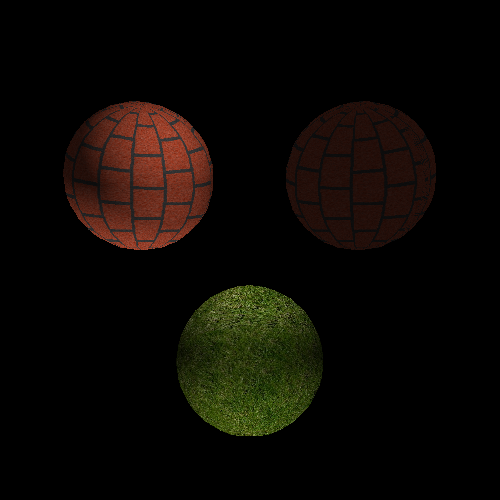
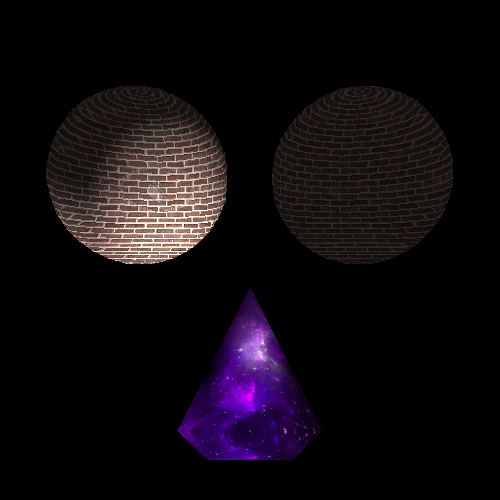
fixes

Changed region(s): [[0.09, 0.15, 0.48, 0.54], [0.54, 0.15, 0.93, 0.54], [0.33, 0.57, 0.66, 0.93]]

diff --git a/main.cpp b/main.cpp
@@ -22,21 +22,21 @@ int main() {
     DirectionalLight directionalLight;
     directionalLight.direction = Vector3{0, -1, 0};
     directionalLight.lightColor = Vector3{1.f, 1.f, 1.f};
-    directionalLight.diffuseStrength = 0.7f;
+    directionalLight.diffuseStrength = 0.9f;
     directionalLight.specularStrength = 0.f;
     simpleShader->setDirectionalLight(directionalLight);
 
     // POINT LIGHT
     PointLight pointLight;
-    pointLight.position = Vector3{0.f, -1.5f, 0.f};
+    pointLight.position = Vector3{0.f, 0.f, 0.f};
     pointLight.lightColor = Vector3{1.f, 1.f, 1.f};
-    pointLight.diffuseStrength = 0.7f;
-    pointLight.specularStrength = 0.0f;
+    pointLight.diffuseStrength = 0.9f;
+    pointLight.specularStrength = 0.f;
     simpleShader->addPointLight(pointLight);
     
     // TEXTURE
-    std::shared_ptr<Texture> brickTexture = std::make_shared<Texture>("../res/textures/brick.png");
-    std::shared_ptr<Texture> grassTexture = std::make_shared<Texture>("../res/textures/grass.jpg");
+    std::shared_ptr<Texture> brickTexture = std::make_shared<Texture>("../res/textures/brick.jpeg");
+    std::shared_ptr<Texture> universeTexture = std::make_shared<Texture>("../res/textures/universe.jpg");
     simpleShader->setTexture(brickTexture);
     simpleShaderNoLight->setTexture(brickTexture);
 
@@ -48,25 +48,25 @@ int main() {
 
     Matrix4 model = Matrix4{1};
 
-    SphereMesh sphereMesh(32);
+    SphereMesh sphereMesh(16);
     model = Matrix4::Translation(-1.5f, -1.f, 0.f) *
-            Matrix4::Scale(1.f, 1.f, 1.f);
+            Matrix4::Scale(1.2f, 1.2f, 1.2f);
     simpleShader->setModel(model);
     rasterizer.render(&sphereMesh, simpleShader.get());
     
-    SphereMesh sphereMesh2(32);
+    SphereMesh sphereMesh2(16);
     model = Matrix4::Translation(1.5f, -1.f, 0.f) *
-            Matrix4::Scale(1.f, 1.f, 1.f);
+            Matrix4::Scale(1.2f, 1.2f, 1.2f);
     simpleShaderNoLight->setModel(model);
     rasterizer.render(&sphereMesh2, simpleShaderNoLight.get());
     
-    SphereMesh sphereMesh3(32);
-
+    ConeMesh coneMesh(1.f, 2.f, 6);
     model = Matrix4::Translation(0.f, 1.5f, 0.f) *
+            Matrix4::RotationZ(ToRad(180.f)) *
             Matrix4::Scale(1.f, 1.f, 1.f);
     simpleShader->setModel(model);
-    simpleShader->setTexture(grassTexture);
-    rasterizer.render(&sphereMesh3, simpleShader.get());
+    simpleShader->setTexture(universeTexture);
+    rasterizer.render(&coneMesh, simpleShader.get());
 
     rasterizer.saveToFile();
 

diff --git a/src/mesh/SphereMesh.cpp b/src/mesh/SphereMesh.cpp
@@ -9,7 +9,6 @@ SphereMesh::SphereMesh(uint32_t segmentsNum) {
     const uint32_t tSize = 2 * vert * horiz;
 
     vertices.resize(vSize);
-    uvs.resize(vSize);
 
     for (uint32_t yy = 0; yy <= horiz + 1; ++yy) {
         const float y = std::cos(static_cast<float>(yy) * static_cast<float>(M_PI) / (horiz + 1.f));
@@ -20,7 +19,6 @@ SphereMesh::SphereMesh(uint32_t segmentsNum) {
             const float z = r * std::sin(2.f * M_PI * rr / vert);
 
             vertices[rr + yy * vert] = Vector3{x, y, z};
-            uvs[rr + yy * vert] = Vector3{yy / (horiz + 1.f) , rr / (vert + 1.f), 0.f};
         }
     }
 
@@ -41,11 +39,14 @@ SphereMesh::SphereMesh(uint32_t segmentsNum) {
         }
     }
 
-    uv_indicies.insert(norm_indicies.end(), vert_indicies.begin(), vert_indicies.end());
-    norm_indicies.insert(norm_indicies.end(), vert_indicies.begin(), vert_indicies.end());
+    uv_indicies.insert(uv_indicies.begin(), vert_indicies.begin(), vert_indicies.end());
+    norm_indicies.insert(norm_indicies.begin(), vert_indicies.begin(), vert_indicies.end());
+
     normals.resize(vSize, Vector3{0.f});
+    uvs.resize(vSize, Vector3{0.f});
 
     for (const uint32_t& indice : norm_indicies) {
         normals[indice] = vertices[indice].normalize();
+        uvs[indice] = Vector3{static_cast<float>(std::asin(normals[indice].x) / M_PI + 0.5f), static_cast<float>(std::asin(normals[indice].y) / M_PI + 0.5f), 0.f};
     }
 }

diff --git a/src/mesh/ConeMesh.cpp b/src/mesh/ConeMesh.cpp
@@ -36,8 +36,11 @@ ConeMesh::ConeMesh(float radius, float height, uint32_t segmentsNum) {
         vert_indicies.push_back(ii + 1);
     }
 
-    norm_indicies.insert(norm_indicies.end(), vert_indicies.begin(), vert_indicies.end());
+    uv_indicies.insert(uv_indicies.begin(), vert_indicies.begin(), vert_indicies.end());
+    norm_indicies.insert(norm_indicies.begin(), vert_indicies.begin(), vert_indicies.end());
+    
     normals.resize(segmentsNum + 2, Vector3{0.f});
+    uvs.resize(segmentsNum + 2, Vector3{0.f});
     
     for (Vector3& normal : normals) {
         normal = Vector3{0.f};
@@ -55,5 +58,9 @@ ConeMesh::ConeMesh(float radius, float height, uint32_t segmentsNum) {
 
     for (Vector3& normal : normals) {
         normal = normal.normalize();
+    }
+
+    for (const uint32_t& indice : norm_indicies) {
+        uvs[indice] = Vector3{static_cast<float>(std::asin(normals[indice].x) / M_PI + 0.5f), static_cast<float>(std::asin(normals[indice].y) / M_PI + 0.5f), 0.f};
     }
 }
